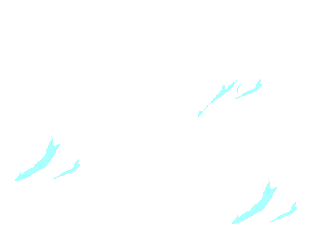
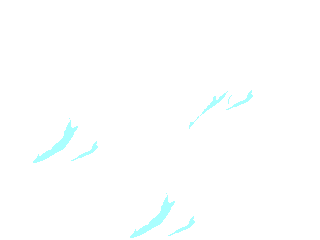
Testing with new position for admob

diff --git a/www/js/main.js b/www/js/main.js
@@ -205,7 +205,7 @@ window.onload = function() {
     admobParam.isTesting=true;
     //admobParam.extra={'keyword':"admob phonegame"};
     admobParam.isForChild=true;
-    admob.showBanner(admob.BannerSize.BANNER, admob.Position.TOP_APP,admobParam);
+    //admob.showBanner(admob.BannerSize.BANNER, admob.Position.TOP_APP,admobParam);
 
     /*var ad_units = {
       android : {
@@ -248,7 +248,7 @@ window.onload = function() {
       // 3 - Create child nodes
       // Background
       bg = new Sprite(320,240);
-      bg.y = 200;
+      bg.y = 140;
       bg.image = game.assets['res/mountain.png'];
       this.backgroundArray = ['#00e8d8','#6888fc','#0058f8','#0000bc','#004058','#000000','#6844fc'];
       this.backgroundColor = this.backgroundArray[0];
@@ -1093,7 +1093,7 @@ window.onload = function() {
       
       if( isAndroid ) {
         //if(AdMob) AdMob.showBanner(AdMob.AD_POSITION.BOTTOM_CENTER);
-        admob.showBanner(admob.BannerSize.BANNER, admob.Position.TOP_APP,admobParam);
+        admob.showBanner(admob.BannerSize.BANNER, admob.Position.BOTTOM_CENTER,admobParam);
       }
       
       // Listen for taps
@@ -1574,6 +1574,9 @@ window.onload = function() {
       this.addChild(label6);
       
       if( isAndroid ) {
+        //if(AdMob) AdMob.showBanner(AdMob.AD_POSITION.BOTTOM_CENTER);
+        admob.showBanner(admob.BannerSize.BANNER, admob.Position.BOTTOM_CENTER,admobParam);
+        
         if(soundOn) {
           currentBGM = 'intro';
           window.plugins.NativeAudio.play(currentBGM);
